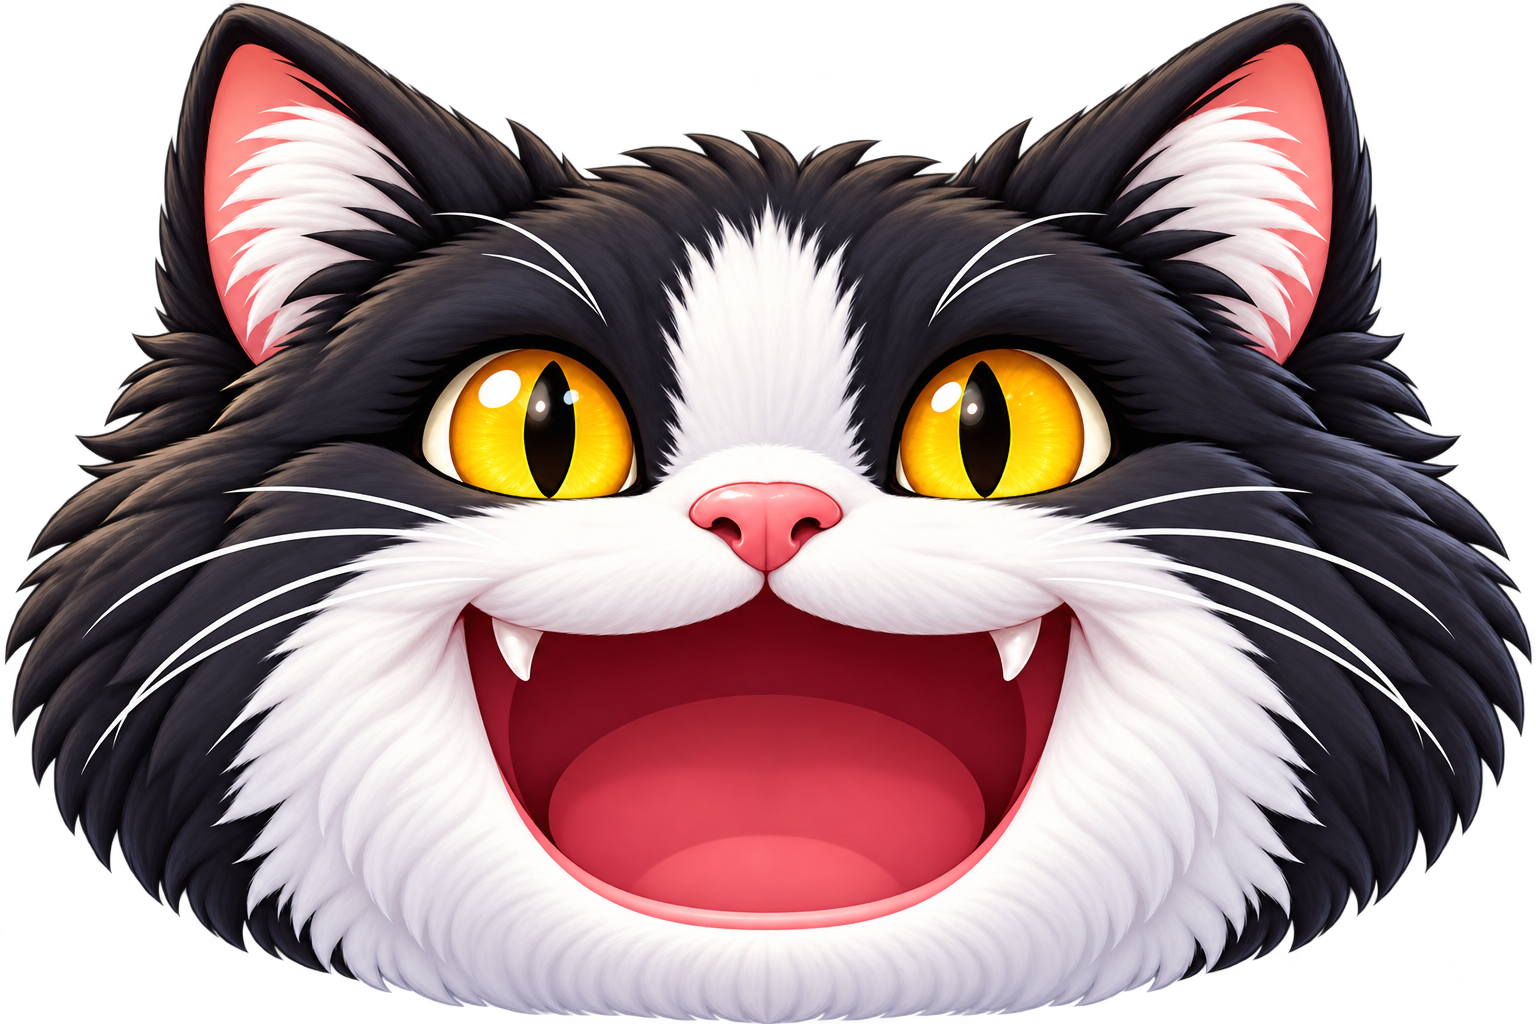
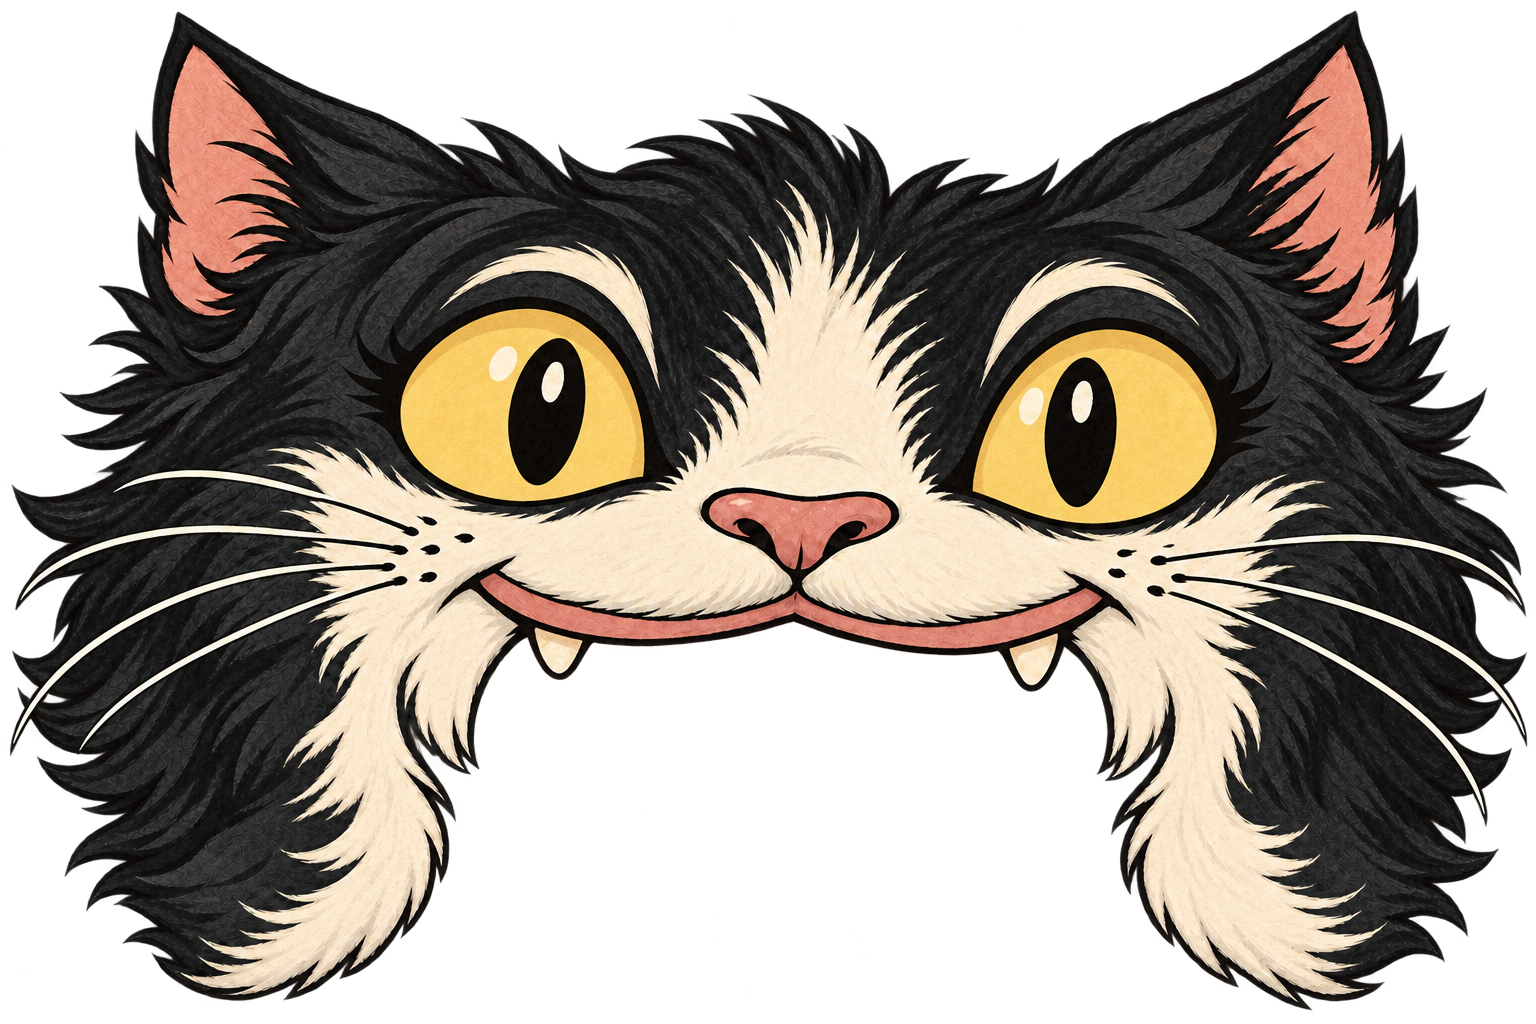
Coins drop from above the cat; Settings with sound and credits
Release 20261010113954.

diff --git a/index.html b/index.html
@@ -167,13 +167,14 @@ let pusherY = PUSH_MIN, tongueDrawY = PUSH_MIN, time = 0, lastDrop = -99, tiltNo
 let pushPhase = 0, pushLoaded = false, pushPending = false;
 // Aiming: you choose only left/right. Coins always drop onto the tongue, on a line near its back just in front of
 // the back wall (DROP_Y), so each new coin lands behind the coins already there and helps push them forward.
-const DROP_Y = PUSH_BACK + COIN_R + 14, DROP_H = 55;
+const DROP_Y = PUSH_MIN + COIN_R + 5, DROP_H = 35;
+let pendingDrops = [], releaseAt = 0;
 let aim = { x: 200, y: DROP_Y }, aimShow = 0, guardAnim = 0;
 let holding = false, holdPos = aim, taps = [], dropTimer = 0, saveTimer = 0, lastChaching = 0;
 // test-build readout at the bottom of the screen: physics time per step (ms) and frames per second, smoothed
 const perf = { step: 0, fps: 60 };
 // when this version was published (publish_game.ps1 fills it in), shown in the readout
-const BUILD = 'Oct 10, 11:12 AM · board preview';
+const BUILD = 'Oct 10, 11:39 AM · board preview';
 
 function initPhysics() {
   // the table tilts gently down toward the player (TILT_DEG): coins at rest stay put, but a push moves them
@@ -192,7 +193,7 @@ function initPhysics() {
   box(halfW + 40, 10, (T.FRONT + 100) / 2, 200, -10, (T.FRONT - 100) / 2, TABLE_FRICTION); // table top, open at the front
   box(10, 200, (T.FRONT + 100) / 2, T.L - 10, 190, (T.FRONT - 100) / 2, 0.2);               // side walls
   box(10, 200, (T.FRONT + 100) / 2, T.R + 10, 190, (T.FRONT - 100) / 2, 0.2);
-  box(halfW + 40, 150, 20, 200, TONGUE_H + 1.5 + 150, PUSH_BACK - 20, 0.2);                 // back wall above the tongue
+  box(halfW + 40, 150, 12, 200, TONGUE_H + 150, PUSH_MIN - 12, 0.2); // mouth barrier; coins cannot retreat into the cat
   tongue = world.createRigidBody(RAPIER.RigidBodyDesc.kinematicPositionBased()
     .setTranslation(200 * M, TONGUE_H / 2 * M, (pusherY - TONGUE_LEN / 2) * M));
   tongueContact = world.createCollider(RAPIER.ColliderDesc.cuboid(halfW * M, TONGUE_H / 2 * M, TONGUE_LEN / 2 * M)
@@ -239,14 +240,14 @@ function addCoin(kind, id, x, h, y, rot, linvel, angvel) {
 }
 
 // One isolated, deterministic board. Campaign and collection economy are deliberately absent.
-const BOARD = Object.freeze({ id:'snack-shelf', seed:42, coins:320, seconds:180,
+const BOARD = Object.freeze({ id:'snack-shelf', seed:42, coins:48, seconds:90,
  targets:[{id:'cheese',x:140,y:548},{id:'shrimp',x:260,y:548}] });
 let board = {status:'ready', remaining:BOARD.coins, elapsed:0, collected:[], used:0};
 let boardRandom = BOARD.seed;
 function seededRandom() { boardRandom=boardRandom*16807%2147483647; return (boardRandom-1)/2147483646; }
 function finishBoard(status) {
  if(board.status==='won'||board.status==='lost')return;
- board.status=status; holding=false; taps=[];
+ board.status=status; holding=false; taps=[];pendingDrops=[];
  if(status==='won') { sfx.kaching(); callout('BOARD CLEAR!', {voice:'quest',color:'#7dff6a'}); }
  else sfx.empty();
 }
@@ -257,19 +258,19 @@ function boardTick(dt) {
  if(board.remaining===0) {
    board.status='settling';
    const moving=bodies.some(b=>{const v=b.rb.linvel();return Math.hypot(v.x,v.y,v.z)>.01;});
-   board.quiet=(!moving&&!pushLoaded&&!pushPending)?(board.quiet||0)+dt:0;
+   board.quiet=(!moving&&!pushLoaded&&!pushPending&&!pendingDrops.length)?(board.quiet||0)+dt:0;
    if(board.quiet>=3)finishBoard('lost');
  }
 }
 function resetBoard() {
  for(const b of bodies.slice())removeCoin(b);
- board={status:'ready',remaining:BOARD.coins,elapsed:0,collected:[],used:0};boardRandom=BOARD.seed;
+ board={status:'ready',remaining:BOARD.coins,elapsed:0,collected:[],used:0,released:0};boardRandom=BOARD.seed;
  S.coins=BOARD.coins;S.shakes=0;S.quest=null;S.guard=0;
  time=0;lastDrop=-99;pushPhase=0;pushLoaded=false;pushPending=false;calm=false;tiltNow=0;
  pusherY=PUSH_MIN;tongueDrawY=PUSH_MIN;
  tongue.setTranslation({x:2,y:TONGUE_H/2*M,z:(PUSH_MIN-TONGUE_LEN/2)*M},true);
  tongueContact.setSensor(true);tongueRest.setEnabled(true);world.gravity={x:0,y:-GRAVITY,z:0};
- holding=false;taps=[];toyQueue=[];falling=[];rings=[];floats=[];callouts=[];
+ holding=false;taps=[];toyQueue=[];falling=[];rings=[];floats=[];callouts=[];pendingDrops=[];releaseAt=0;
  showerLeft=0;shake=0;dropTimer=0;saveTimer=0;
  prefill();for(let i=0;i<180;i++)world.step();
 }
@@ -351,8 +352,7 @@ function prefill() {
     addCoin(seededRandom()<.25?'silver':'coin',null,x,h,y,yawTurn(seededRandom()*6));
    }
  }
- sheet(PUSH_BACK+COIN_R+2,PUSH_MIN-COIN_R,TONGUE_H+COIN_HALF+.2);
- sheet(PUSH_MIN+COIN_R+2,T.FRONT-COIN_R,COIN_HALF+.2);
+ sheet(PUSH_MAX+COIN_R+3,T.FRONT-COIN_R,COIN_HALF+.2);
  addStack(200,null,420,yawTurn(0),10,null,0);
  for(const target of BOARD.targets) {
   const b=addCoin('item',target.id,target.x,COIN_HALF*2+halfOf('item')+1,target.y,yawTurn(0));
@@ -543,16 +543,21 @@ for (const k in VOICE) {
 // Background music: Jenny's pick, "Cute Cat Meow Song" by juncala (Pixabay, free under the Pixabay Content License:
 // fine inside the game, but the file must never be offered on its own). Loops all the time, quietly, and dips while
 // the voice talks. Starts on the first tap (phones don't allow sound before one); follows the 🔊 button.
-const MUSIC_VOL = 0.35;
-const music = new Audio('sounds/music/cat-meow-song.mp3');
-music.loop = true; music.volume = MUSIC_VOL;
+const MUSIC_VOL = 0.10;
+const music = new Audio('sounds/music/retro-funk.mp3');
+music.loop = false; music.volume = 0;
+S.musicEnabled = true;
+try {const audioSettings=JSON.parse(localStorage.getItem('catpusher.audio.v1')||'null');if(audioSettings){S.musicEnabled=audioSettings.musicEnabled!==false;S.muted=!!audioSettings.muted;}}catch(e){}
+function saveAudioSettings(){try{localStorage.setItem('catpusher.audio.v1',JSON.stringify({musicEnabled:S.musicEnabled,muted:S.muted}));}catch(e){}}
 let musicOK = false, duckUntil = 0, inBackground = false;
 window.appPaused = p => { inBackground = p; if (p) music.pause(); }; // the phone app calls this when it's left / reopened
 function musicTick() {
-  const want = musicOK && !S.muted && !inBackground && document.visibilityState === 'visible';
+  const want = musicOK && !music.ended && S.musicEnabled && !S.muted && !inBackground && document.visibilityState === 'visible'
+    && (board.status==='playing'||board.status==='settling');
   if (want && music.paused) music.play().catch(() => { });
   else if (!want && !music.paused) music.pause();
-  music.volume = performance.now() < duckUntil ? MUSIC_VOL * 0.4 : MUSIC_VOL;
+  const target=performance.now()<duckUntil?MUSIC_VOL*.25:MUSIC_VOL;
+  music.volume += (target-music.volume)*.08;
 }
 let lastSay = -9;
 function say(key, important) {
@@ -655,25 +660,27 @@ function pickDrop() {
 }
 
 // Drop a coin (or now and then a special coin or prize) from above the drop line; physics does the rest.
-function tryDrop(at = aim) {
- if(board.status==='won'||board.status==='lost'||board.remaining<=0)return false;
+function tryDrop(at=aim) {
+ if(board.status==='won'||board.status==='lost'||board.remaining<=0||pendingDrops.length>=6)return false;
  if(board.status==='ready')board.status='playing';
- board.remaining--;board.used++;S.coins=board.remaining+1;
-  if (S.coins <= 0) {
-    if (coinFlash <= 0) say('nocoins');
-    coinFlash = 1.5;
-    sfx.empty(); return;
-  }
-  S.coins--; S.drops++; lastDrop = time;
-  let kind = 'coin', id = null;
-  const rad = radius(kind), x = Math.max(T.L + rad, Math.min(T.R - rad, at.x + (seededRandom()*4-2)));
-  const y = Math.max(DROP_Y, PUSH_BACK + rad + 4) + seededRandom()*6-3; // big chips land a little further out, clear of the wall
-  // dropped nearly flat with little tumble, so coins settle into neat layers instead of jumbled heaps
-  const b = addCoin(kind, id, x, DROP_H, y, yawTurn(seededRandom()*6),
-    { x: 0, y: -1, z: 0 }, { x: 0, y: 0, z: 0 });
-  b.fresh = true; // ring and thud when it first lands
-  sfx.drop();
-  return true;
+ const x=Math.max(T.L+COIN_R+2,Math.min(T.R-COIN_R-2,at.x));
+ board.remaining--;board.used++;S.coins=board.remaining;S.drops++;
+ pendingDrops.push(x);pushPending=true;
+ return true;
+}
+
+function releaseDrop() {
+ // Drop into the reopened gap, never onto the moving tray or an occupied coin.
+ if(!pendingDrops.length||pusherY>PUSH_MIN+6||time<releaseAt)return;
+ const aimed=pendingDrops[0];
+ const slots=[60,116,172,228,284,340].filter(x=>Math.abs(x-aimed)<=88).sort((a,b)=>Math.abs(a-aimed)-Math.abs(b-aimed));
+ const x=slots.find(x=>!bodies.some(b=>{
+  const p=b.rb.translation();return p.y>=0&&Math.hypot(p.x/M-x,p.z/M-DROP_Y)<COIN_R+b.r+2;
+ }));
+ if(x===undefined)return;
+ pendingDrops.shift();board.released++;releaseAt=time+.1;lastDrop=time;pushPending=true;
+ const b=addCoin('coin',null,x,DROP_H,DROP_Y,yawTurn(seededRandom()*6),{x:0,y:-1,z:0},{x:0,y:0,z:0});
+ b.fresh=true;b.input=true;sfx.drop();
 }
 
 function collect(id) {
@@ -722,7 +729,8 @@ function step() {
   time += STEP;
   // Keep a continuous rigid stroke. New coins load the next complete push at the back;
   // a settled pile is supported while the unloaded tongue slides underneath it.
-  const requested = time - lastDrop < ACTIVE_SEC || shake > 0 || showerLeft > 0;
+  releaseDrop();
+  const requested = time - lastDrop < ACTIVE_SEC || pendingDrops.length>0 || shake > 0 || showerLeft > 0;
   if (requested) pushPending = true;
   const previousPhase = pushPhase;
   pushPhase = (pushPhase + STEP) % PUSH_PERIOD;
@@ -736,9 +744,9 @@ function step() {
       tongueRest.setEnabled(!loaded);
     }
   }
-  const smooth = t => t * t * (3 - 2 * t);
-  const stroke = phase < 0.08 ? 0 : phase < 0.53 ? smooth((phase - 0.08) / 0.45)
-    : phase < 0.61 ? 1 : 1 - smooth((phase - 0.61) / 0.39);
+  // Constant-speed straight travel and a short dwell at each end: a mechanical slide.
+  const stroke = phase < 0.08 ? 0 : phase < 0.53 ? (phase - 0.08) / 0.45
+    : phase < 0.61 ? 1 : 1 - (phase - 0.61) / 0.39;
   pusherY = PUSH_MIN + (PUSH_MAX - PUSH_MIN) * stroke;
   tongueDrawY = pusherY;
   const active = pushLoaded || requested;
@@ -991,7 +999,7 @@ function drawCallout() {
 // The face bobs and sways gently all the time; now and then (and on lightning, shakes and jack-in-the-box) the cat
 // growls and lunges: the face swells toward you, the brows come down and the pupils narrow. Cartoon-scary.
 let lunge = 0, nextGrowl = 25;
-function catGrowl() { sfx.growl(); lunge = 1; }
+function catGrowl() { sfx.growl(); lunge = 1; duckUntil=performance.now()+1200; }
 function moodTick(dt) {
   lunge = Math.max(0, lunge - dt * 1.1);
   if (time > nextGrowl) { if (lunge === 0) catGrowl(); nextGrowl = time + rand(25, 55); }
@@ -1317,7 +1325,6 @@ function artX(x) { return 200 + (x - 200) * ART_ZX; }
 
 function drawMachine() {
  ctx.drawImage(ART.table,0,180,400,420);
- ctx.drawImage(ART.head,-10,-15,420,280);
  drawTongue();
 }
 
@@ -1358,6 +1365,8 @@ function drawEyes(ls) {
 function drawTongue() {
  const bottom=proj(200,tongueDrawY).y;
  ctx.save();ctx.beginPath();ctx.rect(74,155,252,140);ctx.clip();
+ // The fixed rear backing fills the mouth; the rigid moving slab slides over it.
+ ctx.drawImage(ART.tongue,20,180,1594,400,74,145,252,95);
  // Source padding is cropped; placement is a translation, never a changing scale.
  ctx.drawImage(ART.tongue,20,170,1594,610,74,bottom-130,252,130);
  ctx.restore();
@@ -1430,7 +1439,7 @@ function draw() {
   bodies.sort((a, b) => a.sortK - b.sortK || a.uid - b.uid);
   for (const b of bodies) drawBody(b);
   // Rear coins are inside the mouth: the upper lip and muzzle occlude them.
-  ctx.drawImage(ART.head,0,0,ART.head.width,600,-10,-15,420,280*600/ART.head.height);
+  ctx.drawImage(ART.head,-10,-15,420,280);
   for (const f of falling) {
     // tipping over the edge and dropping away, fading as it goes (the ones at the corners go behind the paws)
     ctx.globalAlpha = Math.max(0, 1 - f.t * 1.9);
@@ -1492,7 +1501,8 @@ function drawBoardHUD() {
  ctx.textBaseline='middle';ctx.textAlign='left';
  ctx.fillStyle='rgba(18,11,28,.9)';ctx.fillRect(0,0,W,by+BANNER_H);
  ctx.fillStyle='#ffd76a';ctx.font='bold 19px system-ui';ctx.fillText(board.remaining+' coins',12,PAD_T+21);
- ctx.textAlign='center';ctx.fillStyle='#fff';ctx.font='bold 13px system-ui';ctx.fillText('SNACK SHELF',222,PAD_T+21);
+ ctx.textAlign='center';ctx.fillStyle='#fff';ctx.font='bold 13px system-ui';ctx.fillText('SNACKS',190,PAD_T+21);
+ ctx.font='18px system-ui';ctx.fillStyle=S.musicEnabled?'#ffe680':'#8d8294';ctx.fillText('♫',W-120,PAD_T+21);
  ctx.textAlign='right';ctx.font='22px system-ui';ctx.fillText(S.muted?'🔇':'🔊',W-12,PAD_T+21);
  if(window.Android){ctx.font='20px system-ui';ctx.fillText('↻',W-66,PAD_T+21);}
  ctx.textAlign='left';ctx.font='bold 12px system-ui';ctx.fillStyle=BOARD.seconds-board.elapsed<20?'#ff7a7a':'#fff';
@@ -1508,6 +1518,7 @@ function drawBoardHUD() {
  ctx.fillText(board.status==='won'?'BOARD CLEAR':board.status==='lost'?'TRY AGAIN':board.status==='settling'?'LAST COINS SETTLING':board.status==='ready'?'TAP TO START':'PUSH BOTH SNACKS',200,bottom+18);
  ctx.fillStyle='#fff';ctx.font='12px system-ui';ctx.fillText(board.status==='won'?'Prototype complete · Replay':'Restart board',200,bottom+42);
  ctx.fillStyle='#c0b8cc';ctx.font='9px system-ui';ctx.fillText(BUILD+' · '+Math.round(perf.fps)+' fps · '+bodies.length+' bodies',200,H-5);
+ ctx.textAlign='right';ctx.font='12px system-ui';ctx.fillText('i',W-8,H-6);
 }
 
 function drawHUD() { drawBoardHUD(); return;
@@ -1594,6 +1605,14 @@ function resize() {
 
 // ---------- collection panel ----------
 const panel = document.getElementById('panel');
+function openCredits() {
+ holding=false;taps=[];
+ panel.innerHTML='<button id="close">Close</button><h2>Music</h2><p>“Loopster” — Kevin MacLeod (incompetech.com)</p>'
+  +'<p>Licensed under <a style="color:#ffe680" href="https://creativecommons.org/licenses/by/4.0/">Creative Commons Attribution 4.0</a>.</p>'
+  +'<p>Original recording; quieter playback with fades and sound-effect ducking.</p>'
+  +'<p>Tap ♫ to turn music off while keeping coin sounds, the growl and the board-clear sound.</p>';
+ panel.style.display='block';panel.querySelector('#close').onclick=()=>{panel.style.display='none';};
+}
 function openPanel() { return;
 
   let h = '<button id="close">Close</button><h2>🎒 Collection</h2>';
@@ -1678,17 +1697,19 @@ cv.addEventListener('pointerdown', e => {
   if (!world) return; // still loading
   sfx.unlock(); musicOK = true; musicTick();
   const p = toGame(e);
+  if(p.y>H-26&&p.x>W-35){openCredits();return;}
   if(p.y>H-PAD_B-BOTTOM_H) { resetBoard();return; }
-  if(board.status==='won'||board.status==='lost')return;
   // the top bar and quest banner: collection and sound buttons (nothing else up there)
   if (p.y < PAD_T + BAR_H + BANNER_H) {
     if (p.y > PAD_T - 6 && p.y < PAD_T + BAR_H) {
-      if (p.x > W - 52) { S.muted = !S.muted; save(); }
+      if (p.x > W - 52) { S.muted = !S.muted; saveAudioSettings();musicTick(); }
       else if (p.x > W - 100 && window.Android) Android.checkUpdates();
+      else if (p.x > W - 148) {S.musicEnabled=!S.musicEnabled;saveAudioSettings();musicTick();}
     }
     return;
   }
   // the shake button; everywhere else (including the bottom of the screen) drops coins
+  if(board.status==='won'||board.status==='lost')return;
   const sb = shakeButton();
   if (Math.hypot(p.x - sb.x, p.y - sb.y) < sb.r + 8) { useShake(); return; }
   cv.setPointerCapture(e.pointerId);
